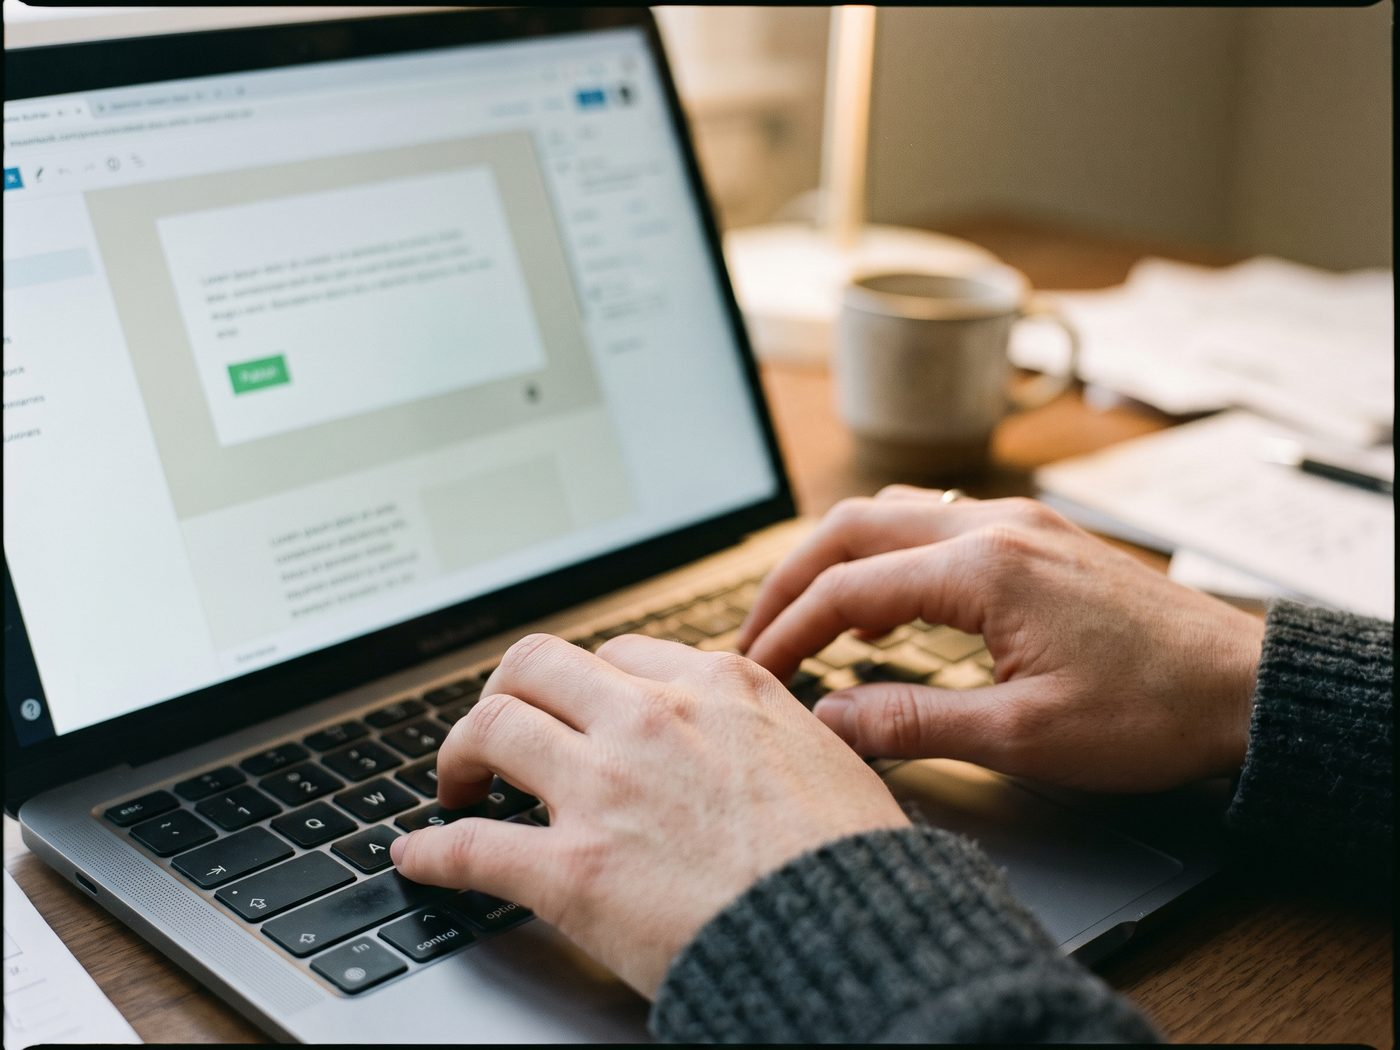
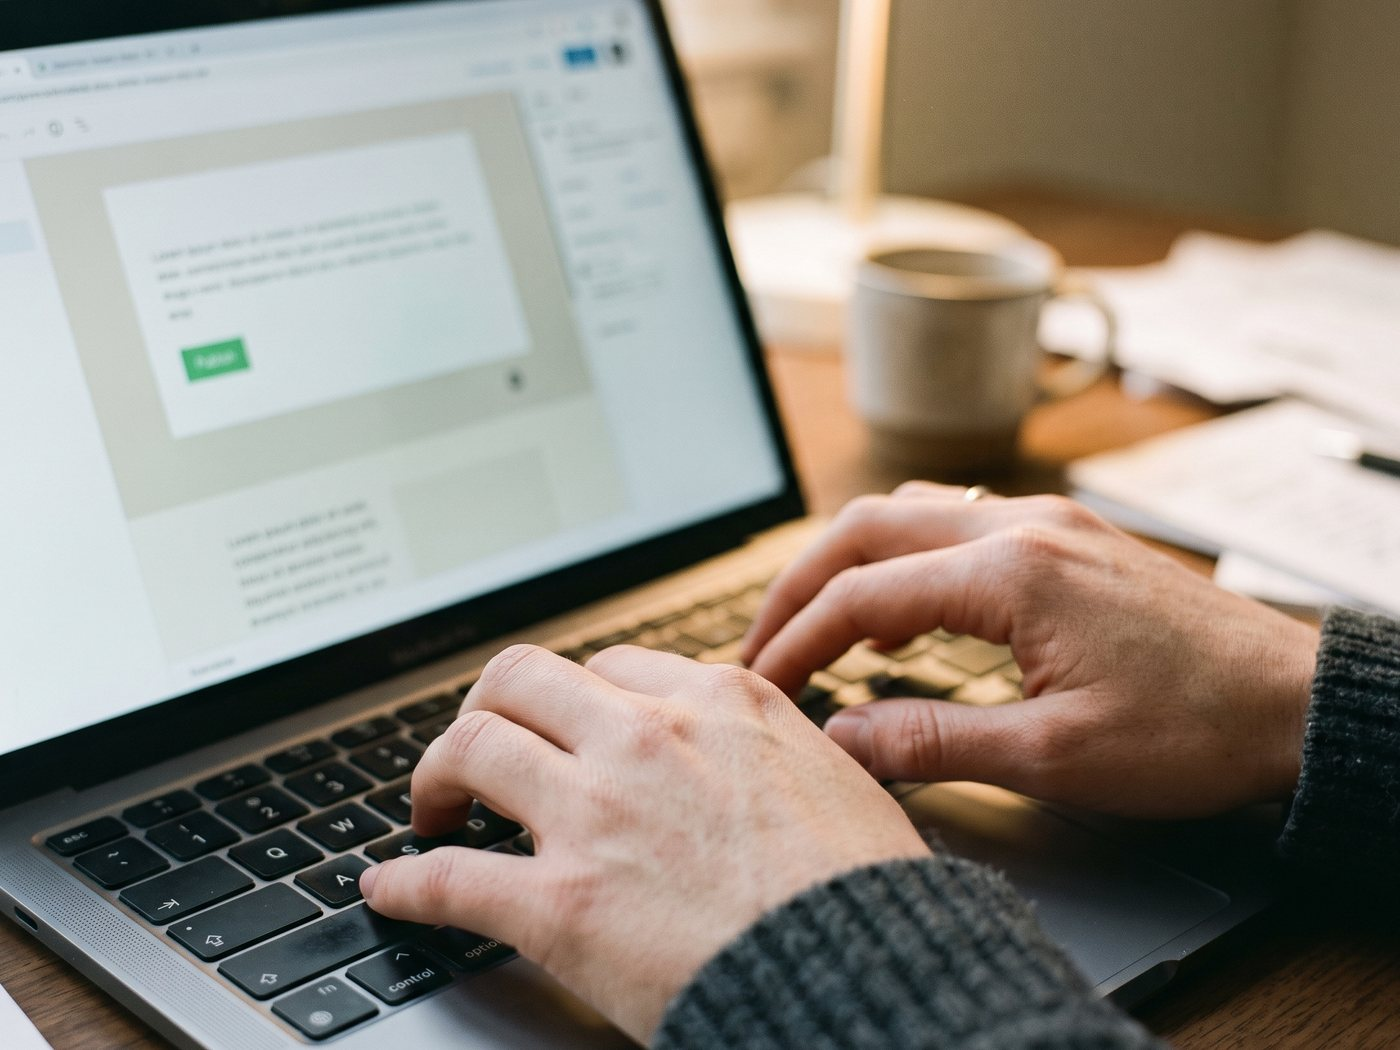
Rework slide funnel: 5 slides, real case photo slot, drop old article
- Remove mp-article.html (scroll version) — keeping only the
  scroll-snap slide version + quiz, as decided.
- Fix mp-objections.jpg: the Gemini generation had a thin black
  film-border artifact on all edges; re-cropped tighter to remove it.
- Split the old "solution + objections + case" slide into two: solution
  + 3 objections (now with the objections photo), and a dedicated case
  slide — real box mockup removed per feedback, replaced with a
  "Реальный пример" label + rewritten copy (tea seller, no more
  "рядом с карточками на маркетплейсе") + a photo slot (16:9,
  images/mp-social-proof.jpg) awaiting the real seller photo.
  5 slides total now — progress bar/segments/goal names updated
  (article_slide_1..5, dynamic from array length).
- Fix a real overlap bug the added content exposed: the "Листайте вниз"
  cue was position:absolute pinned to the viewport bottom, so on short
  phones (iPhone SE class) it overlapped the last objection card once
  that slide's content grew. Moved it into normal flow instead, and
  tightened spacing under a max-height:700px media query so dense
  slides fit without clipping on short screens.

Claude-Session: https://claude.ai/code/session_018ZXD3kmkDduR2LYGnj7bU5

diff --git a/mp-article-slides.html b/mp-article-slides.html
@@ -86,6 +86,7 @@
     align-items:center;
     padding:100px 28px 60px;
     position:relative;
+    overflow-y:auto;
   }
   .slide-inner{max-width:520px; width:100%;}
 
@@ -104,6 +105,9 @@
     border-radius:14px; overflow:hidden; margin-bottom:22px;
     background:linear-gradient(135deg, var(--green-tint), #F5F7F6);
   }
+  .img-slot.ratio-4-3{aspect-ratio:4/3;}
+  .img-slot.ratio-16-9{aspect-ratio:16/9;}
+  .img-slot.compact{max-width:220px; margin:0 auto 18px;}
   .img-slot img{width:100%; height:100%; object-fit:cover; display:block;}
   .img-slot.img-missing::after{
     content:attr(data-caption);
@@ -122,20 +126,19 @@
   .objection-row b{display:block; font-size:14.5px; font-weight:700; color:var(--green-deep); margin-bottom:3px;}
   .objection-row span{font-size:14px; color:var(--graphite);}
 
-  .case-line{
-    font-size:14.5px; color:var(--gray);
-    border-left:3px solid var(--green);
-    padding-left:12px; margin-top:16px;
+  .case-label{
+    font-size:12px; font-weight:700; letter-spacing:.04em; text-transform:uppercase;
+    color:var(--green-deep); margin-bottom:12px;
   }
 
   .scroll-cue{
-    position:absolute; bottom:26px; left:50%; transform:translateX(-50%);
     display:flex; flex-direction:column; align-items:center; gap:4px;
     color:var(--gray); font-size:12px; font-weight:600;
+    margin-top:28px;
     animation:bob 1.8s ease-in-out infinite;
   }
   .scroll-cue svg{width:18px; height:18px;}
-  @keyframes bob{0%,100%{transform:translate(-50%,0);} 50%{transform:translate(-50%,6px);}}
+  @keyframes bob{0%,100%{transform:translate(0,0);} 50%{transform:translate(0,6px);}}
 
   .btn-cta{
     display:inline-flex; align-items:center; gap:10px;
@@ -154,18 +157,27 @@
   @media (max-width:420px){
     .slide{padding:88px 22px 54px;}
   }
+  @media (max-height:700px){
+    .slide{padding:76px 22px 36px;}
+    .img-slot.compact{max-width:140px;}
+    .objection-row{padding:11px 14px; margin-bottom:8px;}
+    .slide h1, .slide h2{font-size:clamp(20px,5vw,26px); margin-bottom:10px;}
+    .slide p{margin-bottom:8px;}
+    .scroll-cue{margin-top:14px;}
+  }
 </style>
 </head>
 <body>
 
 <div class="topbar">
   <div class="topbar-inner">
-    <div class="topbar-label"><b id="curNum">1</b> из 4</div>
+    <div class="topbar-label"><b id="curNum">1</b> из 5</div>
     <div class="segments" id="segments">
       <span data-i="0"><i></i></span>
       <span data-i="1"><i></i></span>
       <span data-i="2"><i></i></span>
       <span data-i="3"><i></i></span>
+      <span data-i="4"><i></i></span>
     </div>
   </div>
 </div>
@@ -202,15 +214,18 @@
     </div>
   </section>
 
-  <!-- ЭКРАН 3 — РЕШЕНИЕ + ВОЗРАЖЕНИЯ + КЕЙС -->
+  <!-- ЭКРАН 3 — РЕШЕНИЕ + ВОЗРАЖЕНИЯ -->
   <section class="slide" data-slide="2">
     <div class="slide-inner">
+      <!-- TODO: фото рук за ноутбуком, экран — конструктор сайта. Файл: images/mp-objections.jpg -->
+      <div class="img-slot ratio-4-3 compact" data-caption="Руки на клавиатуре ноутбука, на экране — конструктор сайта">
+        <img src="images/mp-objections.jpg" alt="" onerror="this.closest('.img-slot').classList.add('img-missing'); this.remove();">
+      </div>
       <h2>Решение — второй канал, не отказ от площадки</h2>
       <p>Часть продавцов не уходит с маркетплейса: они добавляют свой интернет-магазин рядом. Он работает вместе с площадкой, не вместо неё.</p>
       <div class="objection-row"><b>«Это сложно»</b><span>Запуск — недели, не месяцы: всё из готовых решений.</span></div>
       <div class="objection-row"><b>«Это дорого»</b><span>Сопоставимо с суммой комиссий за 2–3 месяца.</span></div>
       <div class="objection-row"><b>«Не разбираюсь в сайтах»</b><span>Это берёт на себя команда — под ключ.</span></div>
-      <p class="case-line">Продавец товаров для дома добавил свой магазин рядом с карточками на маркетплейсе — часть постоянных покупателей перешла на прямые заказы без комиссии.</p>
     </div>
     <div class="scroll-cue">
       Листайте вниз
@@ -218,8 +233,25 @@
     </div>
   </section>
 
-  <!-- ЭКРАН 4 — РАЗВЯЗКА / CTA -->
-  <section class="slide final-slide" data-slide="3">
+  <!-- ЭКРАН 4 — КЕЙС / СОЦИАЛЬНОЕ ДОКАЗАТЕЛЬСТВО -->
+  <section class="slide" data-slide="3">
+    <div class="slide-inner">
+      <div class="case-label">Реальный пример</div>
+      <p class="lead">Продавец чая добавил свой интернет-магазин — свои товары, без чужих правил. За несколько месяцев часть покупателей перешла на прямые заказы, без комиссии площадки.</p>
+      <!-- TODO: фото реального продавца (портрет или за работой), 16:9.
+           Файл: images/mp-social-proof.jpg -->
+      <div class="img-slot ratio-16-9" data-caption="Фото реального продавца — например, за работой или в своём магазине" style="margin-top:18px; margin-bottom:0;">
+        <img src="images/mp-social-proof.jpg" alt="" onerror="this.closest('.img-slot').classList.add('img-missing'); this.remove();">
+      </div>
+    </div>
+    <div class="scroll-cue">
+      Листайте вниз
+      <svg viewBox="0 0 24 24" fill="none"><path d="M6 9l6 6 6-6" stroke="currentColor" stroke-width="2" stroke-linecap="round" stroke-linejoin="round"/></svg>
+    </div>
+  </section>
+
+  <!-- ЭКРАН 5 — РАЗВЯЗКА / CTA -->
+  <section class="slide final-slide" data-slide="4">
     <div class="slide-inner">
       <h2>Узнайте стоимость своего интернет-магазина</h2>
       <p class="subtitle">Пара вопросов о вашей нише и объёме — и вы получите точный расчёт</p>
